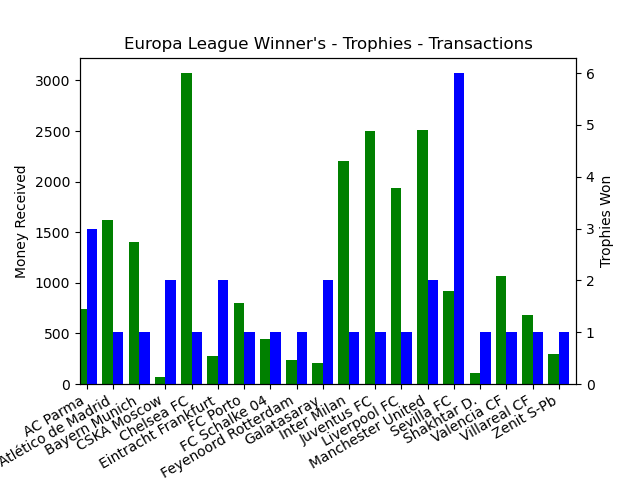
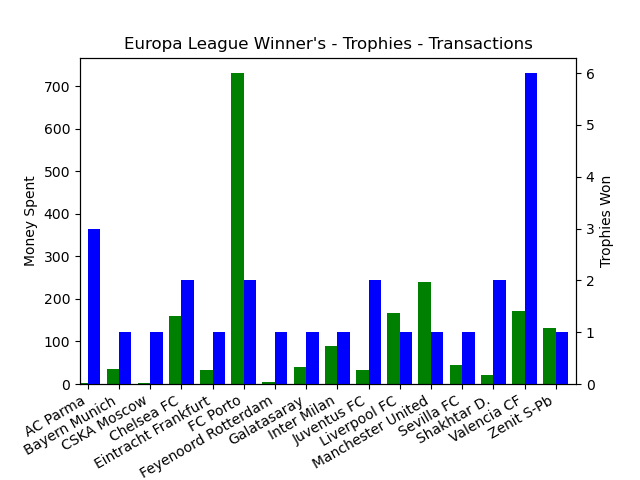
Added plot for omegas

Changed region(s): [[0.0, 0.1562, 0.875, 1.0], [0.0625, 0.25, 0.125, 0.2812], [0.0625, 0.1562, 0.125, 0.1875]]

diff --git a/src/preprocess.py b/src/preprocess.py
@@ -2,31 +2,6 @@ import networkx as nx
 import pandas as pd
 import math
 
-CH_mapping = {'Barcelona': 'FC Barcelona', 'Bor. Dortmund': 'Borussia Dortmund', 'Man Utd': 'Manchester United',
-                   'Chelsea' : 'Chelsea FC', 'Liverpool' : 'Liverpool FC', 'Marseille' : 'Olympique Marseille',
-                   'Inter': 'Inter Milan'}
-
-EUR_mapping = {'Bor. Dortmund': 'Borussia Dortmund', 'Man Utd': 'Manchester United',
-                   'Chelsea' : 'Chelsea FC', 'Liverpool' : 'Liverpool FC', 'Villarreal' : 'Villarreal CF',
-                   'Inter': 'Inter Milan', 'Schalke 04' : 'FC Schalke 04', 'Parma' : 'Parma FC',
-                   'E. Frankfurt' : 'Eintracht Frankfurt', 'Atlético Madrid' : 'Atlético de Madrid',
-                   'Valencia' : 'Valencia CF'}
-
-universal_mapping = {'Barcelona': 'FC Barcelona', 'Bor. Dortmund': 'Borussia Dortmund', 'Man Utd': 'Manchester United',
-                   'Chelsea' : 'Chelsea FC', 'Liverpool' : 'Liverpool FC', 'Marseille' : 'Olympique Marseille',
-                   'Inter': 'Inter Milan', 'Man Utd': 'Manchester United',
-                   'Liverpool' : 'Liverpool FC', 'Villarreal' : 'Villarreal CF',
-                   'Inter': 'Inter Milan', 'Schalke 04' : 'FC Schalke 04', 'Parma' : 'Parma FC',
-                   'E. Frankfurt' : 'Eintracht Frankfurt', 'Atlético Madrid' : 'Atlético de Madrid',
-                   'Valencia' : 'Valencia CF', 'Real Betis' : 'Real Betis Balompié', 'RCD Mallorca B':'RCD Mallorca',
-                   'CF Extremadura (- 2010)':'CF Extremadura', 'Atl. Madrid B':'Atlético de Madrid', 'Real Murcia':'Real Murcia CF',
-                   'Real Madrid B':'Real Madrid', 'Barcelona B':'FC Barcelona', 'RM Castilla':'Real Madrid',
-                   'Albacete':'Albacete Balompié', 'Levante':'Levante UD', 'Gimnàstic':'Gimnàstic de Tarragona',
-                   'Girona':'Girona FC', 'Celta Vigo B':'Celta de Vigo', 'Athletic':'Athletic Bilbao', 'Getafe ':'Getafe CF',
-                   'Cádiz B': 'Cádiz CF', 'UD Almería B':'UD Almería', 'Almería':'UD Almería', 'Dep. La Coruña':'Deportivo de La Coruña',
-                   'Burgos CF':'Real Burgos CF', 'Racing': 'Racing Santander', 'Real Zaragoza B':'Real Zaragoza',
-                   'Recr. Huelva':'Recreativo Huelva', 'Real Sociedad B':'Real Sociedad'}
-
 class Preprocessing:
     
     def select_league(self, arg_n):
@@ -148,39 +123,7 @@ class Preprocessing:
         # for k, v in spent.items():
         #     print(k, " spent ", v)
         
-        return spent
-    
-    
-    """ Creates a sub-community of international champions teams - money received"""        
-    def sub_champions_received_community(self, soccer, champs, mapp):
-        if mapp == 0:
-            soccer = self.dictionary_name_mapping(soccer, CH_mapping)
-        else:
-            soccer = self.dictionary_name_mapping(soccer, EUR_mapping)
-        
-        spent = {}
-        for ((seller, buyer), (player, fee_cleaned, year)) in soccer.items():
-            if seller in champs:
-                
-                # Set fee_cleaned to float type value
-                if isinstance(fee_cleaned, float):
-                        fee = 0.0
-                else:
-                        fee = float(fee_cleaned)
-                        
-                # Update spent dictionary
-                if seller not in spent:
-                    spent.update({ seller : fee })
-                else:
-                    current_spent = spent.get(seller)
-                    spent.update({ seller : (fee + current_spent) })
-                    
-        #print(spent)
-        # for k, v in spent.items():
-        #     print(k, " spent ", v)
-        
-        spent = self.sort_dictionary(spent)
-        return spent    
+        return spent 
     
     ''' Helper function to obtain the average position and points obtained by teams of a particular league '''
     def average_stats(self):

diff --git a/src/utils.py b/src/utils.py
@@ -230,22 +230,28 @@ class Utils:
     def normalize_pair_league_omegas(self):
         df = pd.read_csv('../dataset/omegas.csv')
         G = nx.from_pandas_edgelist(df, source='league1', target='league2',
-                                    edge_attr=['omegas'],
+                                    edge_attr=['omegas', 'teams', 'transfers'],
                                     create_using=nx.MultiGraph())
         
         omega_labels = nx.get_edge_attributes(G, "omegas")
+        teams_labels = nx.get_edge_attributes(G, "teams") # number of teams in the pair leagues
+        transfers_labels = nx.get_edge_attributes(G, "transfers") # number of sinlge edge transfers between leagues.
         
         dict_omegas ={}
-        for(leagues, omega) in omega_labels.items():
+        plot_dict = {}
+        for(leagues, omega), (_, teams), (_, transfers) in zip(omega_labels.items(),
+                                                               teams_labels.items(),
+                                                               transfers_labels.items()):
             
             l1 = leagues[0]
             l2 = leagues[1]
             
+            plot_dict.update({(l1,l2):(omega, teams, transfers)})
             dict_omegas.update({(l1,l2):omega})
             
         dict_omegas = self.normalize_btw(dict_omegas)
         
-        return dict_omegas, G
+        return dict_omegas, plot_dict, G
     
     """ 
         Plot scatter description:
@@ -255,33 +261,29 @@ class Utils:
             node size = normalized omega value
     """
     def plot_omegas(self, data):
-        leagues = list(data.keys())
-        omegas = list(data.values())
+        keys = list(data.keys()) # names of leagues
         
-        # assign numerical ID to joint-pair leagues
+        # Assing Unique Identifier
+        id_leagues = {}
+        for i in range(len(keys)):
+            id_leagues.update({keys[i]:i+1})
+            
+        ids = list(id_leagues.values())
         
+        y_omegas =[]
+        x_transfers = []
+        x_teams = []
+        for (omega, teams, transfers) in data.values():
+            y_omegas.append(omega)
+            x_transfers.append(transfers)
+            x_teams.append(teams)
 
-        
-        
-        
-        # print(df) # Print list of the names
-        fig = plt.figure(figsize=(36,11)) # Create matplotlib figure
-        axs = fig.add_subplot(111) # Create matplotlib axes
-        ax2 = axs.twinx() # Create another axes that shares the same x-axis as ax.
+        fig, ax = plt.subplots()
+        ax.scatter(x_transfers, y_omegas)
 
-        width = 0.2
-
-        df.Value.plot(kind='bar', color='green', ax=axs, width=width, position=1)
-        df.Attribute.plot(kind='bar', color='blue', ax=ax2, width=width, position=0)
-
-        axs.set_xlabel('Team')
-        ax2.set_ylabel(leagues)
-        axs.set_ylabel(omegas)
+        for i, txt in enumerate(ids):
+            ax.annotate(txt, (x_transfers[i], y_omegas[i]))
         
-        font = {"color": "k", "fontweight": "bold", "fontsize": 20}
-        ax.set_title('League-Pairs omegas', font)
-        fig.autofmt_xdate()
-        
-        plt.title('League-Pairs omegas')
-        plt.savefig("../plots/omegas_league", format="PNG")
+        plt.title('Pairs of Leagues - Small World')
+        plt.savefig("../plots/omegas_league.png", format="PNG")
         plt.show()

diff --git a/src/main.py b/src/main.py
@@ -123,7 +123,7 @@ def new_execution():
     comm = Community()
     ch_process = ChampionsDataProcess()
     
-    #soccer_dict, teams = util.create_dict(5)
+    # soccer_dict, teams = util.create_dict(5)
     
     # Teams -> 314 nodes. 
     #print(sorted(teams))
@@ -142,11 +142,6 @@ def new_execution():
     #print(ordered)
     #print(graph)
     #print([e for e in graph.edges.data()])
-    
-    
-    """ Clustering Coefficient """
-    #coeff = prep.get_graph_clustering_ceff(graph)
-    #print(prep.sort_dictionary_by_value(coeff))
     
 
     """ 
@@ -174,10 +169,10 @@ def new_execution():
     """
         Plot Spearman Rank Correlation Coefficient for Champions League and Europa League Winners
     """
-    # ch_process.plotting_categorical(spent_ch, 0, True)
+    #ch_process.plotting_categorical(spent_ch, 0, True)
     # ch_process.plotting_categorical(received_ch, 0, False)
     
-    # ch_process.plotting_categorical(spent_el, 1, True)
+    #ch_process.plotting_categorical(spent_el, 1, True)
     # ch_process.plotting_categorical(received_el, 1, False)
     
     
@@ -231,9 +226,13 @@ def new_execution():
         Study Betweenness centrality of teams in the given community.
         (There's an option to study both degree and centrality)
     """
-    # btw_centr, graph = sc.community_attributes(prem_stats, prem_ordered, prem_graph)
+    #btw_centr, graph = sc.community_attributes(prem_stats, prem_ordered, prem_graph)
     # btw_centr = prep.sort_dictionary_by_value(btw_centr)
     # print(btw_centr)
+    
+    """ Clustering Coefficient """
+    #coeff = prep.get_graph_clustering_ceff(graph)
+    #print("the clustering coeff: ", prep.sort_dictionary_by_value(coeff))
     
     """
         Given the statistics and the soccer prepped dictionary, and the ordered communities based on modularity.
@@ -248,11 +247,12 @@ def new_execution():
         Obtain omega value to calculate the small-world property of the given graph 
         For particular Domestic Leagues
     """
-    # league_soccer, league_teams = util.create_dict(6)
+    #league_soccer, league_teams = util.create_dict(0)
     # print(len(league_teams))
     # print(sorted(league_teams))
     
-    # league_order_comm, league_graph = comm.process_community_graph_update(league_soccer, False, 3, league_teams)
+    #league_order_comm, league_graph = comm.process_community_graph_update(league_soccer, False, 3, league_teams)
+    
     # #league_ordered = data_community(league_order_comm, prem_stats, False)
     
     # omega = sc.obtain_omega_small_world(league_graph)
@@ -271,9 +271,9 @@ def new_execution():
     """
         Normalize omega values for small-world property to see which pair to pair leagues has a better relationship
     """
-    dict_omega, omega_graph = util.normalize_pair_league_omegas()
-    print(prep.sort_dictionary_by_value(dict_omega))
-    util.plot_omegas(dict_omega)
+    dict_omega, plot_dict, omega_graph = util.normalize_pair_league_omegas()
+    # print(prep.sort_dictionary_by_value(dict_omega))
+    util.plot_omegas(plot_dict)
             
     
     

diff --git a/src/communities.py b/src/communities.py
@@ -45,22 +45,22 @@ class Community:
         # Change font color for legend
         font["color"] = "r"
 
-        ax.text(
-            0.80,
-            0.10,
-            "node color = community structure",
-            horizontalalignment="center",
-            transform=ax.transAxes,
-            fontdict=font,
-        )
-        ax.text(
-            0.80,
-            0.06,
-            "node size = betweenness centrality",
-            horizontalalignment="center",
-            transform=ax.transAxes,
-            fontdict=font,
-        )
+        # ax.text(
+        #     0.80,
+        #     0.10,
+        #     "node color = community structure",
+        #     horizontalalignment="center",
+        #     transform=ax.transAxes,
+        #     fontdict=font,
+        # )
+        # ax.text(
+        #     0.80,
+        #     0.06,
+        #     "node size = betweenness centrality",
+        #     horizontalalignment="center",
+        #     transform=ax.transAxes,
+        #     fontdict=font,
+        # )
 
         # Resize figure for label readability
         ax.margins(0.1, 0.05)

diff --git a/src/ch_league_process.py b/src/ch_league_process.py
@@ -112,7 +112,7 @@ class ChampionsDataProcess:
         df.Trophies.plot(kind='bar', color='blue', ax=ax2, width=width, position=0)
 
         axs.set_xlabel('Team')
-        axs.set_ylabel('Money Received')
+        axs.set_ylabel('Money Spent')
         ax2.set_ylabel('Trophies Won')
         
         fig.autofmt_xdate()
